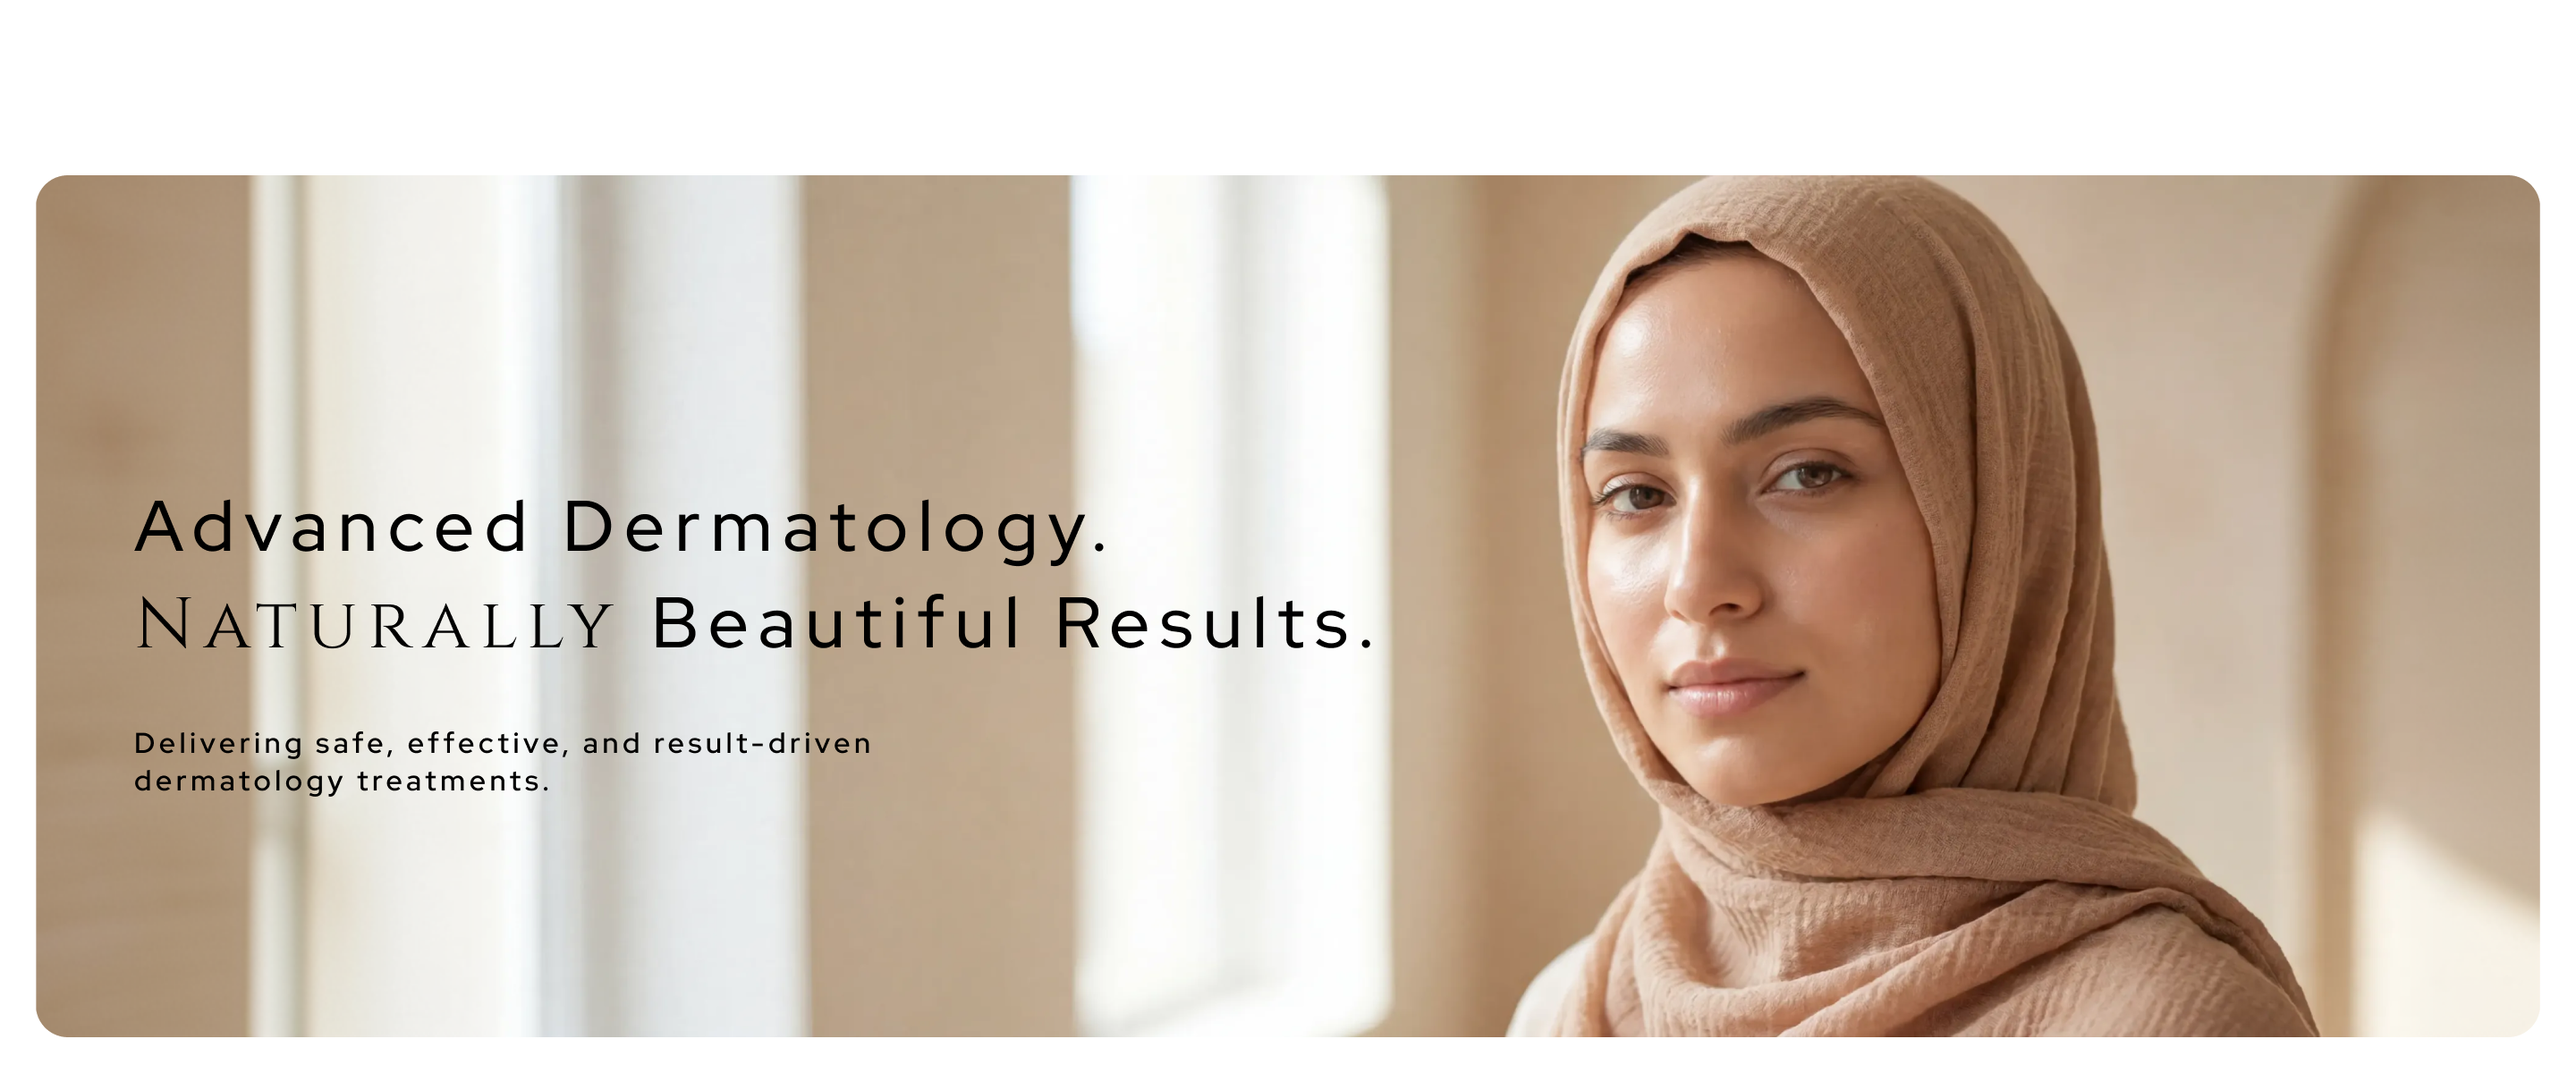
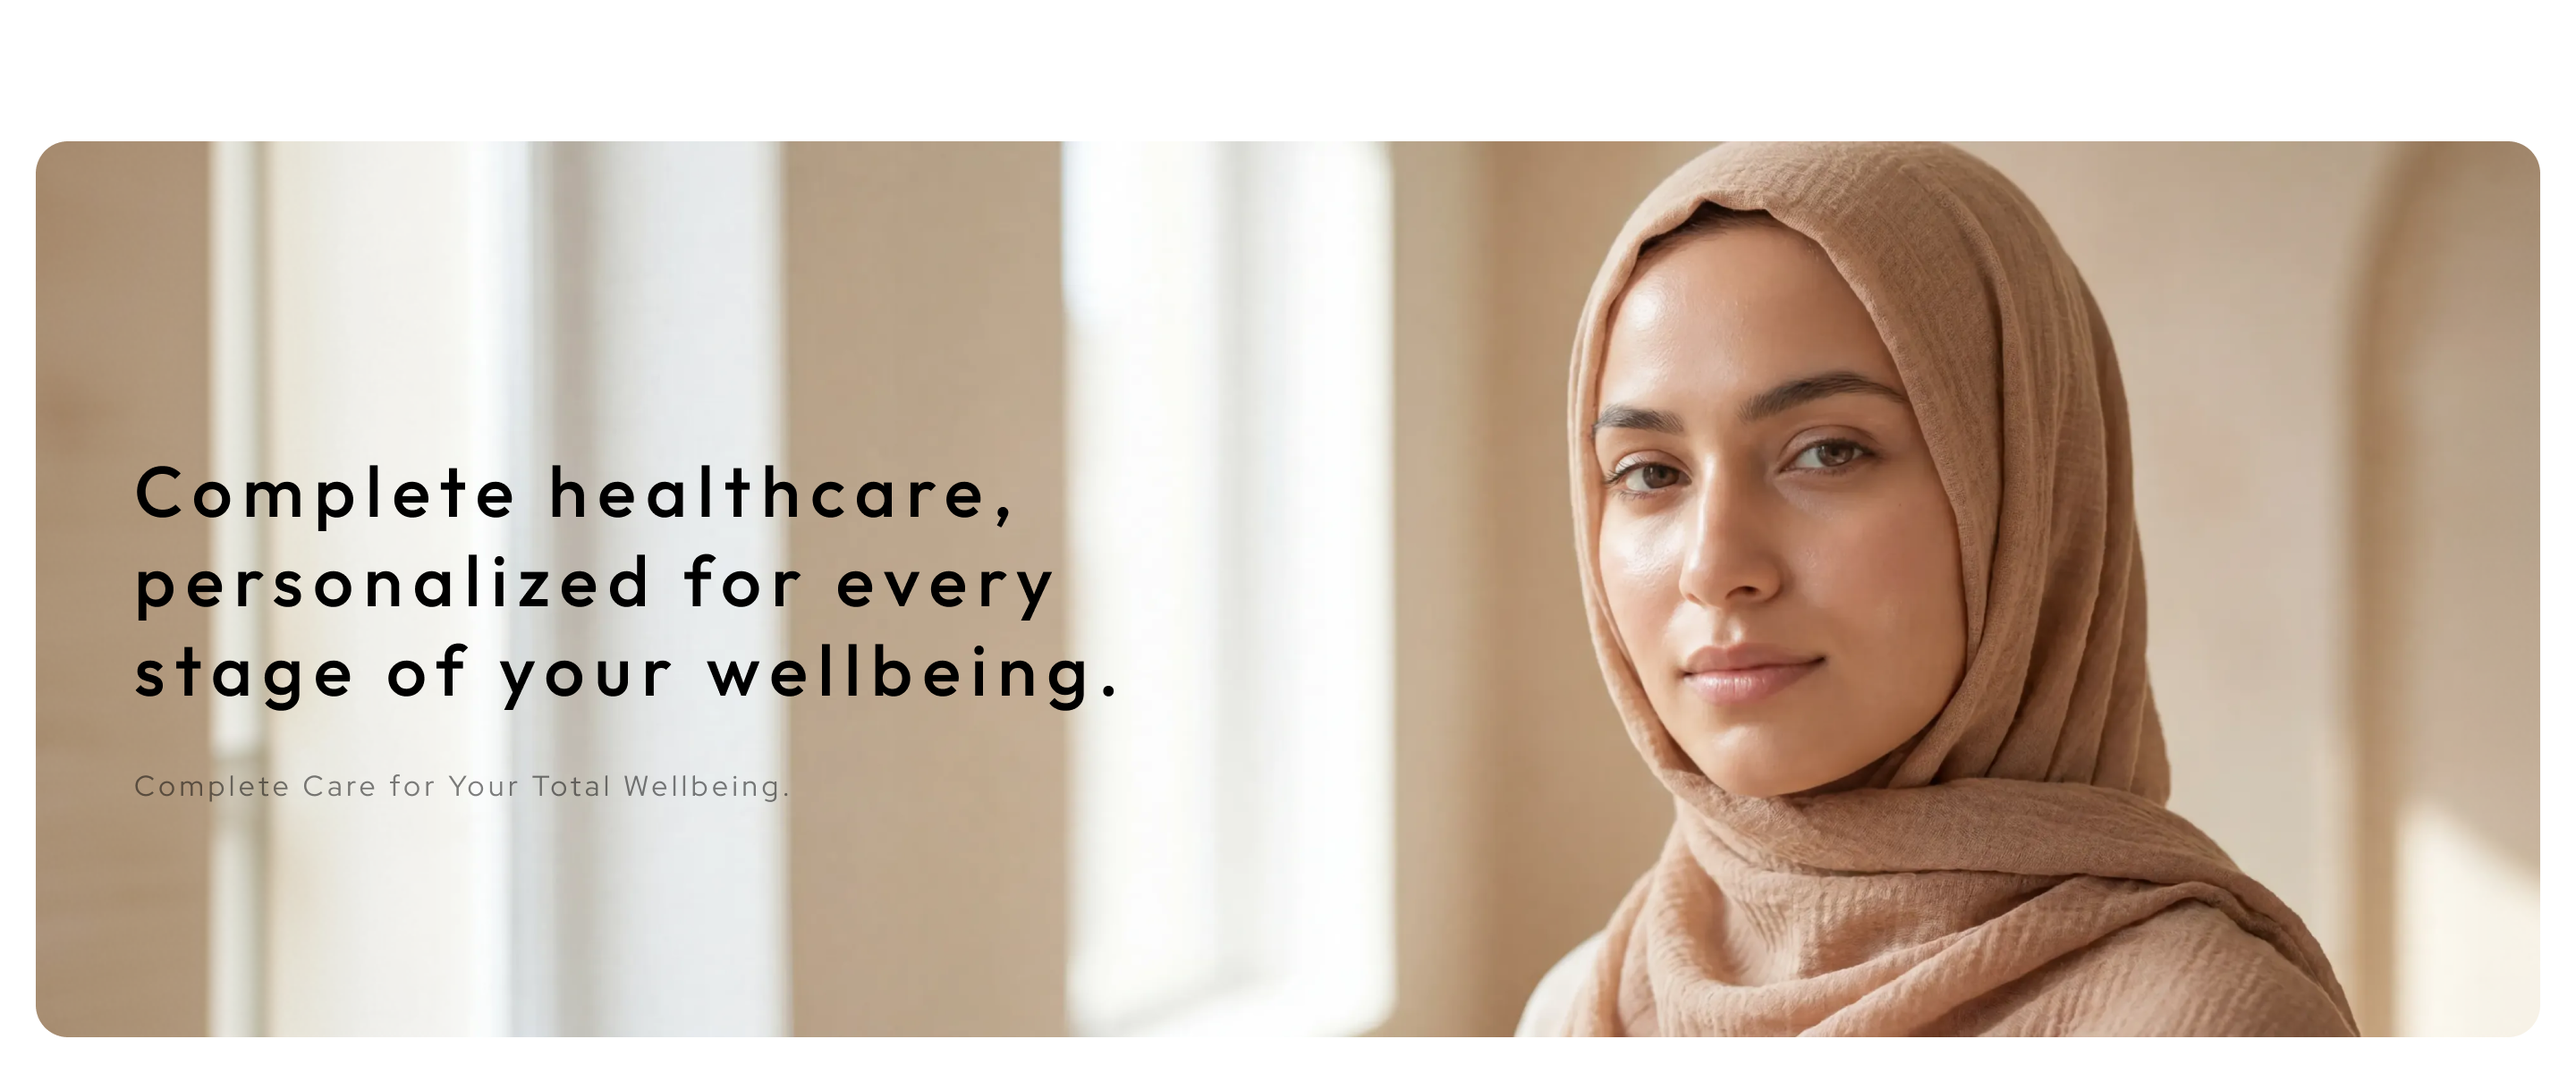
12-09-2026 - Completed services

Changed region(s): [[0.5312, 0.1233, 1.0, 0.9867], [0.0, 0.1233, 0.5312, 0.9867], [0.4688, 0.1233, 0.5, 0.185]]

diff --git a/components/Homepage/WhatWeDoSection.tsx b/components/Homepage/WhatWeDoSection.tsx
@@ -2,7 +2,7 @@
 
 import { motion, type Variants } from "framer-motion";
 
-const highlightItems = ["Tailored Treatment Plans", "Evidence-Based Care", "Natural-Looking Results"];
+const highlightItems = ["COMPLETE MEDICAL CARE", "ADVANCED DIAGNOSTICS", "PERSONALIZED TREATMENT PLANS"];
 
 const smoothEase: [number, number, number, number] = [0.22, 1, 0.36, 1];
 
@@ -360,7 +360,7 @@ export default function WhatWeDoSection() {
 
           {/* Heading */}
           <motion.h2
-            className="mx-auto max-w-4xl font-primary text-[22px] font-medium uppercase leading-[1.45] tracking-[4px] text-black sm:text-[25px] md:text-[30px] md:tracking-[6px] lg:text-[32px]"
+            className="mx-auto max-w-4xl font-primary text-[22px] font-medium uppercase leading-[1.45] tracking-[4px] text-black sm:text-[18px] md:text-[22px] md:tracking-[6px] lg:text-[24px]"
             initial={{ opacity: 0, x: -65 }}
             whileInView={{ opacity: 1, x: 0 }}
             transition={{
@@ -370,7 +370,7 @@ export default function WhatWeDoSection() {
             }}
             viewport={{ once: true }}
           >
-           Personalized Care. Proven Results.
+           COMPREHENSIVE CARE. PERSONALIZED FOR YOU.
           </motion.h2>
 
           {/* Divider */}
@@ -400,7 +400,7 @@ export default function WhatWeDoSection() {
 
           {/* Paragraph */}
           <motion.p
-            className="mx-auto mt-7 max-w-[980px] font-secondary text-[16px] font-light leading-[1.75] tracking-[1.2px] text-[#777] sm:text-[18px] md:mt-8 md:text-[21px] md:leading-[1.65] md:tracking-[1.4px] lg:text-[24px]"
+            className="mx-auto mt-7 max-w-[980px] font-secondary text-[14px] font-light leading-[1.75] tracking-[1.2px] text-[#777] sm:text-[14px] md:mt-8 md:text-[18px] md:leading-[1.65] md:tracking-[1.4px] lg:text-[20px]"
             initial={{ opacity: 0, x: 65 }}
             whileInView={{ opacity: 1, x: 0 }}
             transition={{
@@ -410,7 +410,7 @@ export default function WhatWeDoSection() {
             }}
             viewport={{ once: true }}
           >
-            We provide personalized skin & aesthetic care focused on precision-driven treatments for long-lasting skin health. Our approach is evidence-based, using clinically evaluated, high-quality products with proven effectiveness, ensuring safe, balanced, and natural-looking results.
+            We provide integrated medical, dental, aesthetic, physiotherapy, and home healthcare services designed around each patient’s individual needs. From routine health concerns such as fever and headaches to blood tests, diagnostics, rehabilitation, and specialized treatments, our multidisciplinary team combines evidence-based medicine, advanced technology, and personalized care to support your health at every stage.
           </motion.p>
 
           {/* Cards */}
@@ -436,7 +436,7 @@ export default function WhatWeDoSection() {
                   ease: smoothEase,
                 }}
               >
-                <p className="font-primary text-[11px] uppercase tracking-[3px] text-[#b567a1] sm:text-[12px]">
+                <p className="font-primary text-[11px] uppercase tracking-[1px] text-[#b567a1] sm:text-[13px]">
                   {item}
                 </p>
               </motion.div>

diff --git a/components/Aboutpage/WhatWeDoSection.tsx b/components/Aboutpage/WhatWeDoSection.tsx
@@ -2,7 +2,7 @@
 
 import { motion, type Variants } from "framer-motion";
 
-const highlightItems = ["Evidence-Based Care", "Advanced Technology", "Personalized Treatment"];
+const highlightItems = ["COMPREHENSIVE MEDICAL CARE", "ADVANCED DIAGNOSTICS", "PERSONALIZED PATIENT CARE"];
 
 const smoothEase: [number, number, number, number] = [0.22, 1, 0.36, 1];
 
@@ -360,7 +360,7 @@ export default function WhatWeDoSection() {
 
           {/* Heading */}
           <motion.h2
-            className="mx-auto max-w-4xl font-primary text-[22px] font-medium uppercase leading-[1.45] tracking-[4px] text-black sm:text-[25px] md:text-[30px] md:tracking-[6px] lg:text-[32px]"
+            className="mx-auto max-w-4xl font-primary text-[18px] font-medium uppercase leading-[1.45] tracking-[4px] text-black sm:text-[18px] md:text-[24px] md:tracking-[6px] lg:text-[26px]"
             initial={{ opacity: 0, x: -65 }}
             whileInView={{ opacity: 1, x: 0 }}
             transition={{
@@ -370,7 +370,7 @@ export default function WhatWeDoSection() {
             }}
             viewport={{ once: true }}
           >
-          Comprehensive Care, One Center
+          Complete Care Under One Roof
           </motion.h2>
 
           {/* Divider */}
@@ -400,7 +400,7 @@ export default function WhatWeDoSection() {
 
           {/* Paragraph */}
           <motion.p
-            className="mx-auto mt-7 max-w-[980px] font-secondary text-[16px] font-light leading-[1.75] tracking-[1.2px] text-[#777] sm:text-[18px] md:mt-8 md:text-[21px] md:leading-[1.65] md:tracking-[1.4px] lg:text-[24px]"
+            className="mx-auto mt-7 max-w-[980px] font-secondary text-[14px] font-light leading-[1.75] tracking-[1.2px] text-[#777] sm:text-[15px] md:mt-8 md:text-[18px] md:leading-[1.65] md:tracking-[1.4px] lg:text-[20px]"
             initial={{ opacity: 0, x: 65 }}
             whileInView={{ opacity: 1, x: 0 }}
             transition={{
@@ -410,7 +410,7 @@ export default function WhatWeDoSection() {
             }}
             viewport={{ once: true }}
           >
-            We provide integrated medical, dental, aesthetic, and home healthcare services designed to support every stage of the patient journey. By combining clinical expertise, advanced technology, and personalized care, we deliver safe, effective, and evidence-based treatment tailored to each patient’s individual needs.
+            We provide comprehensive medical, dental, aesthetic, physiotherapy, diagnostic, and home healthcare services tailored to individual patient needs. From blood tests, fever, headaches, and routine consultations to physiotherapy, specialized treatments, and continuing care, our multidisciplinary team delivers safe, evidence-based treatment with a focus on long-term health and wellbeing.
           </motion.p>
 
           {/* Cards */}
@@ -436,7 +436,7 @@ export default function WhatWeDoSection() {
                   ease: smoothEase,
                 }}
               >
-                <p className="font-primary text-[11px] uppercase tracking-[3px] text-[#b567a1] sm:text-[12px]">
+                <p className="font-primary text-[11px] uppercase tracking-[1px] text-[#b567a1] sm:text-[12px]">
                   {item}
                 </p>
               </motion.div>

diff --git a/components/Homepage/ServiceLegacySection.tsx b/components/Homepage/ServiceLegacySection.tsx
@@ -232,9 +232,9 @@ export default function ServiceLegacySection() {
               once: true,
             }}
           >
-            COMPREHENSIVE CARE
+            COMPLETE HEALTHCARE. 
             <br />
-            ALL IN ONE PLACE
+            ONE MEDICAL CENTER.
           </motion.h2>
 
           {/* Paragraph */}
@@ -270,7 +270,7 @@ export default function ServiceLegacySection() {
               once: true,
             }}
           >
-            Royal Dutch Medical Center brings together medical, dental, aesthetic, and home healthcare services within one integrated healthcare environment. Our multidisciplinary team combines evidence-based medicine, advanced technology, and personalized treatment protocols to provide seamless, patient-centered care at every stage of the healthcare journey.
+            Royal Dutch Medical Center provides comprehensive medical, dental, aesthetic, physiotherapy, diagnostic, and home healthcare services under one roof. From everyday health concerns such as fever and headaches to blood tests, physiotherapy, specialized consultations, and aesthetic care, our experienced team combines evidence-based medicine, advanced technology, and personalized treatment plans to support every stage of your health journey.
           </motion.p>
 
           {/* Button */}
@@ -312,7 +312,7 @@ export default function ServiceLegacySection() {
                 hover:text-[#200020]
               "
             >
-              Know More
+              EXPLORE SERVICES
             </Link>
           </motion.div>
         </div>

diff --git a/components/Aboutpage/VisionMissionSwipe.tsx b/components/Aboutpage/VisionMissionSwipe.tsx
@@ -10,14 +10,14 @@ gsap.registerPlugin(ScrollTrigger);
 const cards = [
   {
     title: "Our Vision",
-    text: "To be a leading multidisciplinary medical center in the UAE, recognized for clinical excellence, innovation, integrity, and international standards of patient care.",
+    text: "To become a leading multidisciplinary medical center in the UAE, recognized for clinical excellence, innovation, integrity, and international standards of comprehensive patient care.",
     image: "/images/our-vision-1.png", // laptop / desktop same
     tabImage: "/images/our-vision-1.png",
     mobileImage: "/images/our-vision-mobile.png",
   },
   {
     title: "Our Mission",
-    text: "To deliver comprehensive, patient-centered healthcare through evidence-based medicine, advanced technology, and personalized treatment protocols — providing trusted medical, dental, aesthetic, and home healthcare services under one integrated platform.",
+    text: "To provide accessible, evidence-based, and personalized healthcare through experienced medical professionals, advanced technology, and integrated services — supporting patients from routine health concerns and diagnostics to specialized treatment, rehabilitation, and ongoing care.",
     image: "/images/our-mission-1.png", // laptop / desktop same
     tabImage: "/images/our-mission-1.png",
     mobileImage: "/images/our-mission-mobile.png",
